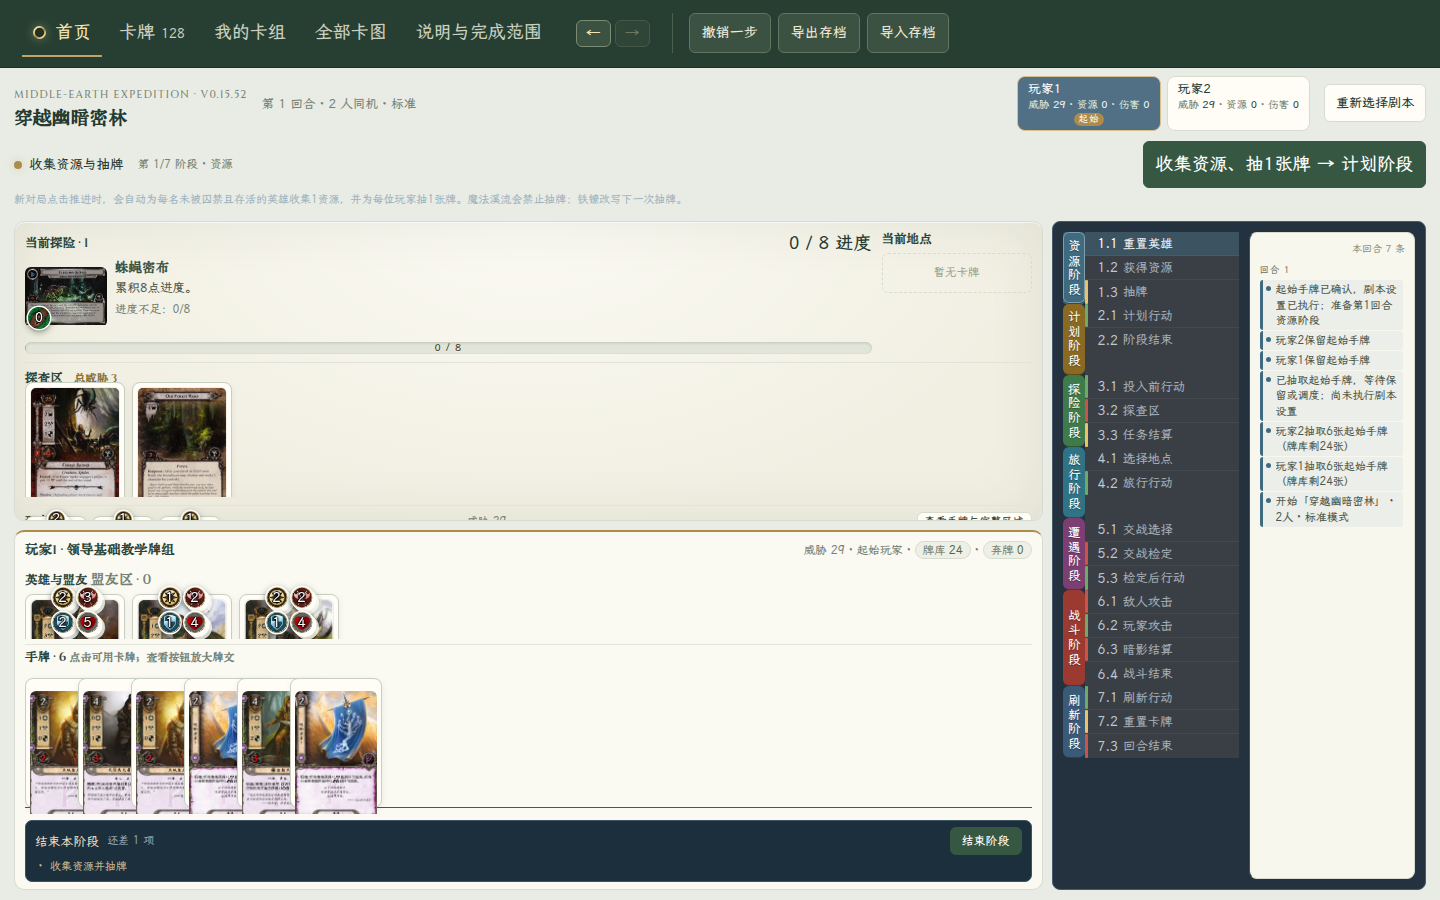
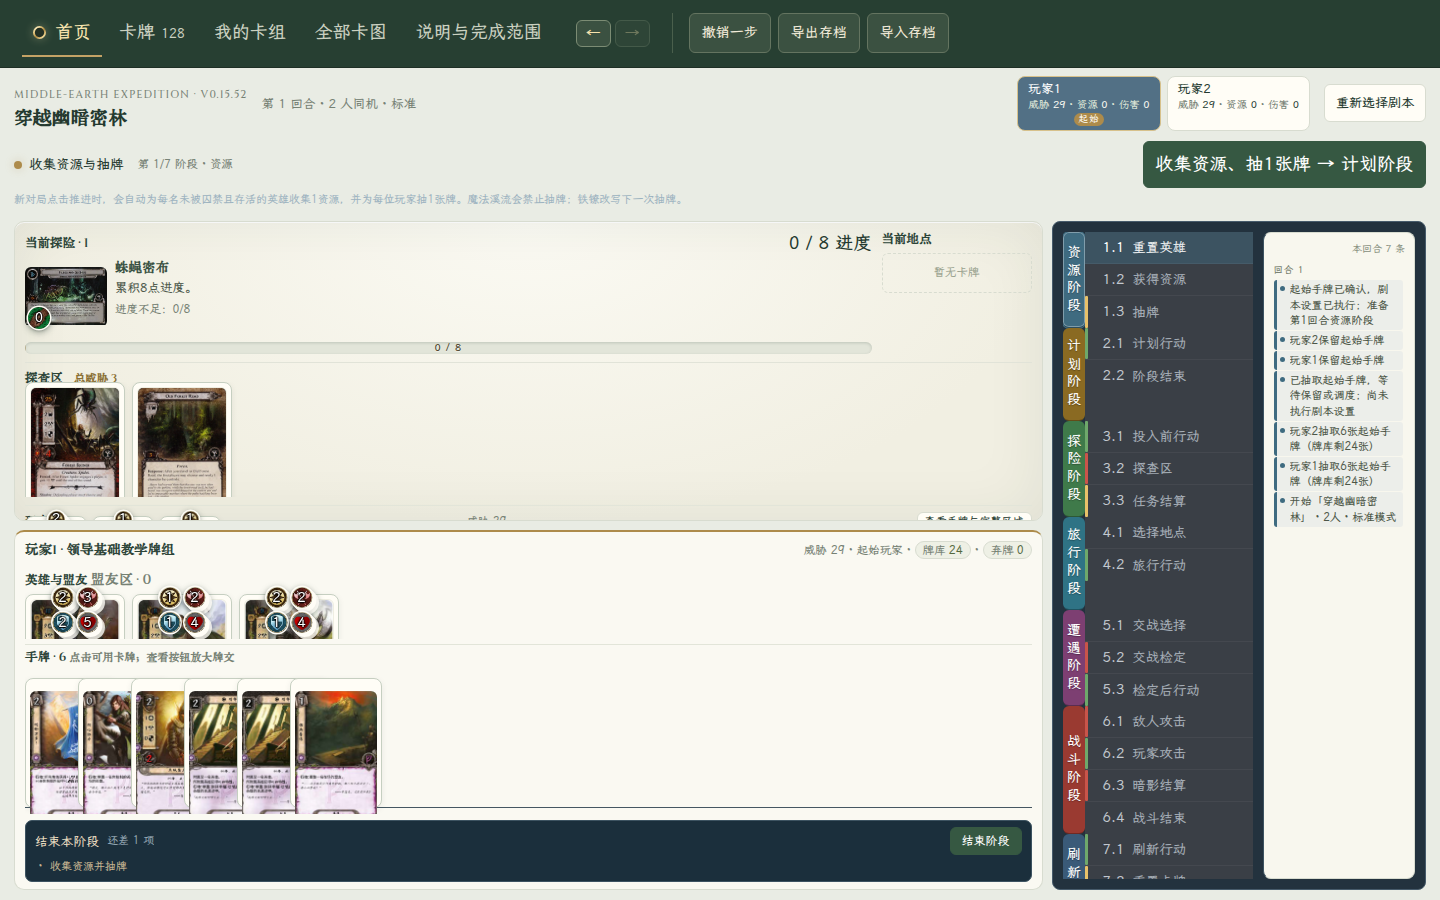
v0.15.53: 竖轴再放大——行高31px/字号14px/列宽190px/间距8px，整轴无滚动

Changed region(s): [[0.7188, 0.2489, 0.9688, 0.9956], [0.125, 0.7467, 0.2812, 0.9022], [0.0, 0.7467, 0.0938, 0.9022]]

diff --git a/index.html b/index.html
@@ -558,7 +558,7 @@ body:has(.desktop-table) .player-tabs button{min-height:40px;padding:4px 10px;ga
 .tabletop-rail{min-height:0;overflow:hidden;display:grid;gap:10px;
  /* v0.15.50：阶段竖轴与日志合并为同一个框体——竖轴在左、日志贴右，
     外层 rail 统一提供边框与底色，内部不再各自套框。 */
- grid-template-columns:176px minmax(0,1fr);
+ grid-template-columns:190px minmax(0,1fr);
  grid-template-rows:minmax(0,1fr);
  background:#23323e;border:1px solid #475b6b;border-radius:8px;padding:10px}
 .tabletop-rail>.phase-rail-v{
@@ -1117,8 +1117,8 @@ body:has(.desktop-table) .player-tabs button{min-height:40px;padding:4px 10px;ga
 .rail-grp.future>.rail-head>span{color:rgba(255,255,255,.72)}
 .rail-grp>.rail-head>span{
  writing-mode:vertical-rl;text-orientation:mixed;
- font-size:12.5px;font-weight:700;line-height:1;letter-spacing:2px;
- color:#fff;padding:6px 0;white-space:nowrap;
+ font-size:14px;font-weight:700;line-height:1;letter-spacing:4px;
+ color:#fff;padding:10px 0;white-space:nowrap;
  text-shadow:0 1px 1px rgba(0,0,0,.32)}
 /* 已过阶段：色块压暗，仍保留色相，方便回看「上一步是什么」 */
 .rail-grp.past>.rail-head{filter:saturate(.42) brightness(.72)}
@@ -1134,7 +1134,7 @@ body:has(.desktop-table) .player-tabs button{min-height:40px;padding:4px 10px;ga
    不靠滚动也能一眼看到全轴，字号同步放大。 */
 .rail-win{
  position:relative;display:grid;grid-template-columns:4px auto minmax(0,1fr);
- align-items:center;gap:5px;min-height:24px;padding:0 4px 0 0;
+ align-items:center;gap:8px;min-height:31px;padding:0 8px 0 0;
  border-bottom:1px solid rgba(255,255,255,.05)}
 .rail-win:last-child{border-bottom:0}
 /* 触发竖线：金=规则触发 / 绿=行动窗口 / 红=强制结算，贴在编号块左缘 */
@@ -1143,10 +1143,10 @@ body:has(.desktop-table) .player-tabs button{min-height:40px;padding:4px 10px;ga
 .rail-win .rail-win-line[data-timing="action"]{background:#6ea86b}
 .rail-win .rail-win-line[data-timing="forced"]{background:#c9544a}
 .rail-win .rail-win-no{
- font-size:13px;line-height:1;font-weight:700;font-variant-numeric:tabular-nums;
- color:#c2c8cf;padding-left:4px;white-space:nowrap}
+ font-size:14px;line-height:1;font-weight:700;font-variant-numeric:tabular-nums;
+ color:#c2c8cf;padding-left:6px;white-space:nowrap}
 .rail-win .rail-win-label{
- font-size:12.5px;line-height:1;color:#a4acb5;
+ font-size:13.5px;line-height:1;color:#a4acb5;
  overflow:hidden;text-overflow:ellipsis;white-space:nowrap}
 /* 当前窗口：整条提亮，编号与说明都变白 */
 .rail-win.hit{background:color-mix(in srgb,var(--pc) 46%,#3a3f46)}
@@ -9855,7 +9855,7 @@ const WindowUI=(()=>{
 </script><script src="phase-log.js"></script><script>
 /* Tabletop view: UI drafts never pay, exhaust, reveal, or bypass phase validation. */
 /* 界面版本徽标唯一来源：须与 CHANGELOG.md 最新条目标题一致（planning-dom-tests 有校验）。 */
-const APP_VERSION='v0.15.52';
+const APP_VERSION='v0.15.53';
 const DesktopUI=(()=>{
  const E=ScenarioEngine,R=E.planning,Q=E.questing,C=E.combat,esc=x=>String(x??'').replace(/[&<>"']/g,c=>({'&':'&amp;','<':'&lt;','>':'&gt;','"':'&quot;',"'":'&#39;'}[c]));
  let combatDraft={key:'',target:null,ids:[]},draftState=null;

diff --git a/style.css b/style.css
@@ -556,7 +556,7 @@ body:has(.desktop-table) .player-tabs button{min-height:40px;padding:4px 10px;ga
 .tabletop-rail{min-height:0;overflow:hidden;display:grid;gap:10px;
  /* v0.15.50：阶段竖轴与日志合并为同一个框体——竖轴在左、日志贴右，
     外层 rail 统一提供边框与底色，内部不再各自套框。 */
- grid-template-columns:176px minmax(0,1fr);
+ grid-template-columns:190px minmax(0,1fr);
  grid-template-rows:minmax(0,1fr);
  background:#23323e;border:1px solid #475b6b;border-radius:8px;padding:10px}
 .tabletop-rail>.phase-rail-v{
@@ -1115,8 +1115,8 @@ body:has(.desktop-table) .player-tabs button{min-height:40px;padding:4px 10px;ga
 .rail-grp.future>.rail-head>span{color:rgba(255,255,255,.72)}
 .rail-grp>.rail-head>span{
  writing-mode:vertical-rl;text-orientation:mixed;
- font-size:12.5px;font-weight:700;line-height:1;letter-spacing:2px;
- color:#fff;padding:6px 0;white-space:nowrap;
+ font-size:14px;font-weight:700;line-height:1;letter-spacing:4px;
+ color:#fff;padding:10px 0;white-space:nowrap;
  text-shadow:0 1px 1px rgba(0,0,0,.32)}
 /* 已过阶段：色块压暗，仍保留色相，方便回看「上一步是什么」 */
 .rail-grp.past>.rail-head{filter:saturate(.42) brightness(.72)}
@@ -1132,7 +1132,7 @@ body:has(.desktop-table) .player-tabs button{min-height:40px;padding:4px 10px;ga
    不靠滚动也能一眼看到全轴，字号同步放大。 */
 .rail-win{
  position:relative;display:grid;grid-template-columns:4px auto minmax(0,1fr);
- align-items:center;gap:5px;min-height:24px;padding:0 4px 0 0;
+ align-items:center;gap:8px;min-height:31px;padding:0 8px 0 0;
  border-bottom:1px solid rgba(255,255,255,.05)}
 .rail-win:last-child{border-bottom:0}
 /* 触发竖线：金=规则触发 / 绿=行动窗口 / 红=强制结算，贴在编号块左缘 */
@@ -1141,10 +1141,10 @@ body:has(.desktop-table) .player-tabs button{min-height:40px;padding:4px 10px;ga
 .rail-win .rail-win-line[data-timing="action"]{background:#6ea86b}
 .rail-win .rail-win-line[data-timing="forced"]{background:#c9544a}
 .rail-win .rail-win-no{
- font-size:13px;line-height:1;font-weight:700;font-variant-numeric:tabular-nums;
- color:#c2c8cf;padding-left:4px;white-space:nowrap}
+ font-size:14px;line-height:1;font-weight:700;font-variant-numeric:tabular-nums;
+ color:#c2c8cf;padding-left:6px;white-space:nowrap}
 .rail-win .rail-win-label{
- font-size:12.5px;line-height:1;color:#a4acb5;
+ font-size:13.5px;line-height:1;color:#a4acb5;
  overflow:hidden;text-overflow:ellipsis;white-space:nowrap}
 /* 当前窗口：整条提亮，编号与说明都变白 */
 .rail-win.hit{background:color-mix(in srgb,var(--pc) 46%,#3a3f46)}

diff --git a/desktop-ui.js b/desktop-ui.js
@@ -1,6 +1,6 @@
 /* Tabletop view: UI drafts never pay, exhaust, reveal, or bypass phase validation. */
 /* 界面版本徽标唯一来源：须与 CHANGELOG.md 最新条目标题一致（planning-dom-tests 有校验）。 */
-const APP_VERSION='v0.15.52';
+const APP_VERSION='v0.15.53';
 const DesktopUI=(()=>{
  const E=ScenarioEngine,R=E.planning,Q=E.questing,C=E.combat,esc=x=>String(x??'').replace(/[&<>"']/g,c=>({'&':'&amp;','<':'&lt;','>':'&gt;','"':'&quot;',"'":'&#39;'}[c]));
  let combatDraft={key:'',target:null,ids:[]},draftState=null;

diff --git a/CHANGELOG.md b/CHANGELOG.md
@@ -1,4 +1,10 @@
+# v0.15.53 · 竖轴再放大一档（2026-10-24）
+
+- 通高实测 697px 后再放开：行高 24→31px（20 × 31 = 620，留 77px 余量不滚动）、编号 14px、标签 13.5px、行内间距 8px、右内边距 8px、阶段名 14px/字距 4px/上下留白 10px、竖轴列宽 176→190px。32px 档实测溢出 1px，回调 31px 后 scrollHeight == height 无滚动。
+- 验收：check-layout 16/16、check-taskbar 23/23、check-onescreen 五区可见、check-contrast 0 低对比。
+
 # v0.15.52 · 竖轴按通高重新配比（2026-10-24）
+
 
 - **行高与字号放开**：右栏通高约 530px 后，竖轴从矮栏压缩态（20 窗口 × 15px、标签 10.5px、列宽 128px）改为舒展态——行高 24px、编号 13px、标签 12.5px、阶段名竖排 12.5px/字距 2px、色块列 22→保持但内边距加大；竖轴列宽 128→176px。20 × 24 = 480px < 530px，整轴仍一屏看全、不滚动。
 - 标签加 `title` 提示，超长窗口名悬停可看全文。
